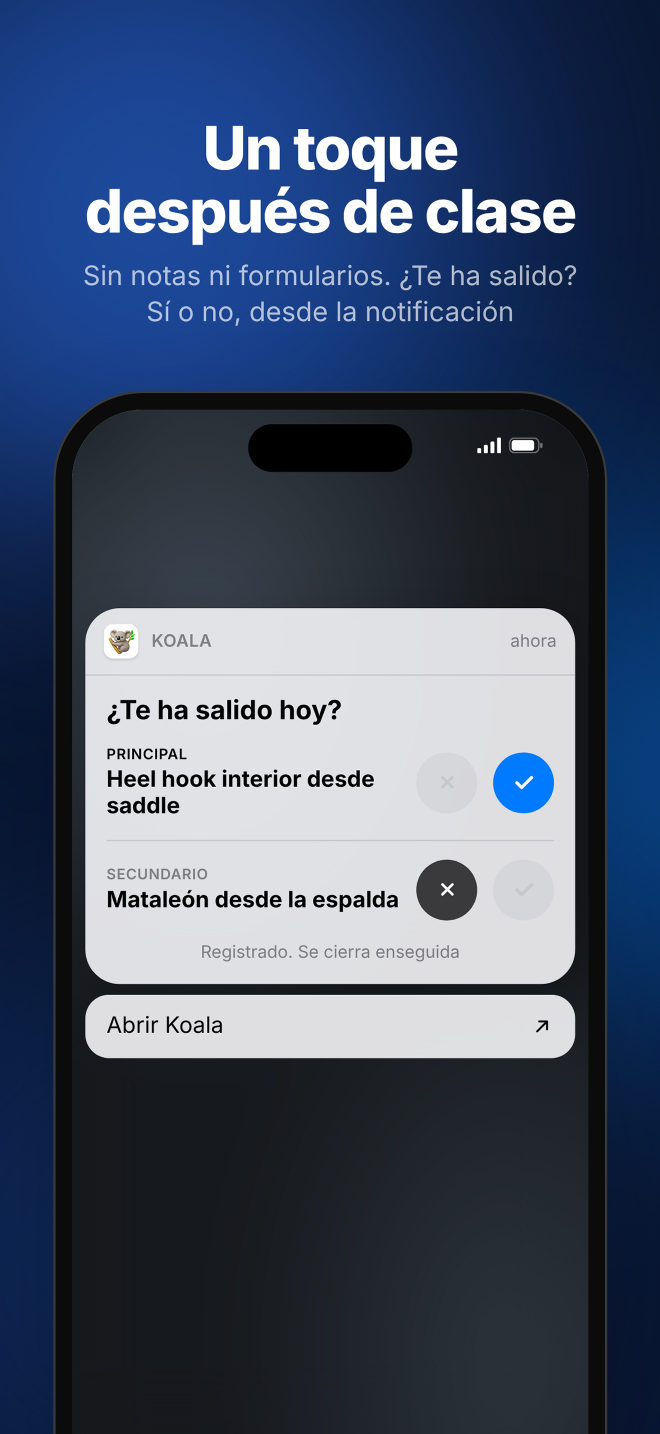
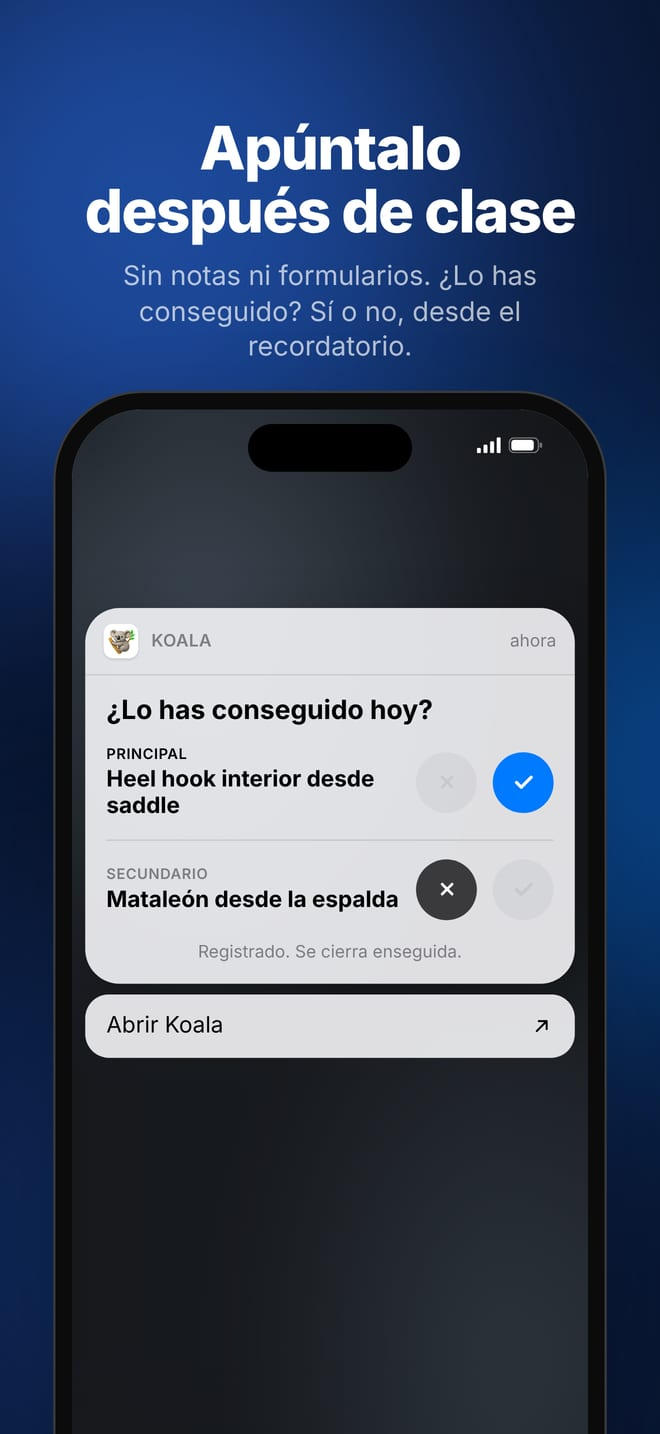
Bring Koala's page up to date with the app's new texts
The landing texts, the privacy and terms pages and the screenshots
follow the app's copy review: periods on the texts themselves, Spanish
"conseguir" and "de uno en uno", BJJ in Portuguese, American dates.

diff --git a/src/content/legal/koala/pt/privacy.md b/src/content/legal/koala/pt/privacy.md
@@ -1,6 +1,6 @@
 ---
 title: "Política de Privacidade"
-updated: "Última atualização: 8 de outubro de 2026"
+updated: "Última atualização: 9 de outubro de 2026"
 ---
 
 O Koala é um app gratuito feito por David Stanete, um desenvolvedor independente com sede na Espanha (“eu”). Esta política explica o que acontece com as suas informações quando você usa o Koala.
@@ -13,11 +13,11 @@ Suas metas, os treinos que você registra, sua faixa, os dias e o horário dos s
 
 ## Sincronização com o iCloud
 
-Se a sincronização com o iCloud estiver ativada (ela vem ativada quando você está conectado ao iCloud), o Koala mantém uma cópia dessas informações no seu armazenamento privado do iCloud, para que elas voltem se você reinstalar o Koala ou trocar de iPhone. Ela fica na sua própria conta do iCloud, sob a política de privacidade da Apple. Eu não consigo ver nem acessar essa cópia. Você pode desativar a sincronização com o iCloud nos Ajustes do Koala quando quiser.
+Se a sincronização com o iCloud estiver ativada (ela vem ativada quando você usa o iCloud no aparelho), o Koala mantém uma cópia dessas informações no seu armazenamento privado do iCloud, para que elas voltem se você reinstalar o Koala ou trocar de iPhone. Ela fica na sua própria conta do iCloud, sob a política de privacidade da Apple. Eu não consigo ver nem acessar essa cópia. Você pode desativar a sincronização com o iCloud nos Ajustes do Koala quando quiser.
 
 ## O que o Koala não faz
 
-O Koala não tem servidores próprios nem usa serviços de análise, de publicidade ou de relatórios de falhas. Ele não rastreia você em outros apps ou sites. Não acessa sua localização, seus contatos nem sua câmera. Nunca lê suas fotos: só adiciona a elas o cartão da sua meta quando você toca em Salvar em Fotos. Só lê o Apple Health se você ativar, para o sono ou para uma meta de peso. Não vende, não aluga e não compartilha dados, porque não tem nenhum para compartilhar.
+O Koala não tem servidores próprios nem usa serviços de análise, de publicidade ou de relatórios de falhas. Ele não rastreia você em outros apps ou sites. Não acessa sua localização, seus contatos nem sua câmera. Nunca lê suas fotos: só adiciona a elas a imagem da sua meta quando você toca em “Salvar em Fotos”. Só lê o Apple Health se você ativar, para o sono ou para uma meta de peso. Não vende, não aluga e não compartilha dados, porque não tem nenhum para compartilhar.
 
 ## Lembretes
 
@@ -25,15 +25,15 @@ Os lembretes são agendados no seu aparelho com as notificações locais do sist
 
 ## Apple Health (opcional)
 
-Se você ativar o Apple Health, o Koala pede sua permissão para ler quanto você dorme, e mostra isso no Início. Se você também adicionar uma meta de peso a um campeonato, ele pede para ler seu peso corporal. Ele lê só esses dados e nunca escreve no Saúde. No Android, o Koala faz o mesmo com o Health Connect. As leituras ficam no seu aparelho (e no seu próprio iCloud com o resto dos seus dados, se a sincronização com o iCloud estiver ativada). Elas nunca são enviadas para mim nem para ninguém, e não são usadas para publicidade ou análise. Você pode desativar o Apple Health no Koala, ou revogar o acesso nos ajustes do Saúde no seu iPhone.
+Se você ativar o Apple Health, o Koala pede sua permissão para ler quanto você dorme, e mostra isso no Início. Se você também adicionar uma meta de peso a um campeonato, ele pede para ler seu peso corporal. Ele lê só esses dados e nunca escreve no Apple Health. No Android, o Koala faz o mesmo com o Health Connect. As leituras ficam no seu aparelho (e no seu próprio iCloud com o resto dos seus dados, se a sincronização com o iCloud estiver ativada). Elas nunca são enviadas para mim nem para ninguém, e não são usadas para publicidade ou análise. Você pode desativar o Apple Health no Koala, ou revogar o acesso nos ajustes do Saúde no seu iPhone.
 
 ## Compartilhar uma meta
 
-Quando você toca em Instagram na tela de compartilhar, o Koala cria no seu aparelho uma imagem do cartão da sua meta e entrega para o Instagram. Quando você toca em Salvar em Fotos, ele adiciona essa imagem às suas fotos; o Koala pede permissão antes, e só para adicionar, nunca para ler. Nada é compartilhado nem salvo se você não tocar. Depois de compartilhado, vale a política de privacidade desse app (por exemplo, a do Instagram).
+Quando você toca em Instagram na tela de compartilhar, o Koala cria no seu aparelho uma imagem da sua meta e entrega para o Instagram. Quando você toca em “Salvar em Fotos”, ele adiciona essa imagem às suas fotos; o Koala pede permissão antes, e só para adicionar, nunca para ler. Nada é compartilhado nem salvo se você não tocar. Depois de compartilhado, vale a política de privacidade desse app (por exemplo, a do Instagram).
 
 ## Exportar e importar seus dados
 
-Exportar meus dados cria um arquivo no seu aparelho e abre o menu de compartilhamento do sistema. Você decide para onde o arquivo vai. Importar dados lê um arquivo que você escolhe no seu aparelho; nada é enviado.
+“Exportar meus dados” cria um arquivo no seu aparelho e abre o menu de compartilhamento do sistema. Você decide para onde o arquivo vai. “Importar dados” lê um arquivo que você escolhe no seu aparelho; nada é enviado.
 
 ## Backups do aparelho
 
@@ -45,7 +45,7 @@ Se você enviar feedback por e-mail, eu recebo seu endereço de e-mail e o que v
 
 ## Apagar seus dados
 
-Ajustes → Apagar todos os dados remove tudo do seu aparelho e do seu iCloud na hora. Apagar o app remove os dados do seu aparelho; a cópia no seu iCloud continua lá até você usar Apagar todos os dados ou removê-la nos ajustes do iCloud do seu iPhone.
+Ajustes → “Apagar todos os dados” remove tudo do seu aparelho e do seu iCloud na hora. Apagar o app remove os dados do seu aparelho; a cópia no seu iCloud continua lá até você usar “Apagar todos os dados” ou removê-la nos ajustes do iCloud do seu iPhone.
 
 ## Crianças
 

diff --git a/src/content/legal/koala/es/privacy.md b/src/content/legal/koala/es/privacy.md
@@ -1,6 +1,6 @@
 ---
 title: "Política de privacidad"
-updated: "Última actualización: 8 de octubre de 2026"
+updated: "Última actualización: 9 de octubre de 2026"
 ---
 
 Koala es una app gratuita creada por David Stanete, un desarrollador independiente con sede en España («yo»). Esta política explica qué ocurre con tu información cuando usas Koala.
@@ -17,7 +17,7 @@ Si la sincronización con iCloud está activada (lo está por defecto cuando has
 
 ## Qué no hace Koala
 
-Koala no tiene servidores propios ni usa servicios de analítica, de publicidad o de informes de fallos. No te rastrea en otras apps ni en sitios web. No accede a tu ubicación, tus contactos ni tu cámara. Nunca lee tus fotos: solo añade a ellas la tarjeta de tu objetivo cuando tocas Guardar en Fotos. Solo lee Apple Health si lo activas, para el sueño o para un objetivo de peso. No vende, alquila ni comparte datos, porque no tiene ninguno que compartir.
+Koala no tiene servidores propios ni usa servicios de analítica, de publicidad o de informes de fallos. No te rastrea en otras apps ni en sitios web. No accede a tu ubicación, tus contactos ni tu cámara. Nunca lee tus fotos: solo añade a ellas la imagen de tu objetivo cuando tocas «Guardar en Fotos». Solo lee Apple Health si lo activas, para el sueño o para un objetivo de peso. No vende, alquila ni comparte datos, porque no tiene ninguno que compartir.
 
 ## Recordatorios
 
@@ -25,15 +25,15 @@ Los recordatorios se programan en tu dispositivo con las notificaciones locales 
 
 ## Apple Health (opcional)
 
-Si activas Apple Health, Koala te pide permiso para leer cuánto duermes, y lo muestra en Inicio. Si además añades un objetivo de peso a una competición, te pide permiso para leer tu peso corporal. Solo lee esos datos y nunca escribe en Salud. En Android, Koala hace lo mismo con Health Connect. Las lecturas se quedan en tu dispositivo (y en tu propio iCloud con el resto de tus datos, si la sincronización con iCloud está activada). Nunca se me envían a mí ni a nadie, y no se usan para publicidad ni para analítica. Puedes desactivar Apple Health en Koala, o retirar el acceso en los ajustes de Salud de tu iPhone.
+Si activas Apple Health, Koala te pide permiso para leer cuánto duermes, y lo muestra en Inicio. Si además añades un objetivo de peso a una competición, te pide permiso para leer tu peso corporal. Solo lee esos datos y nunca escribe en Apple Health. En Android, Koala hace lo mismo con Health Connect. Las lecturas se quedan en tu dispositivo (y en tu propio iCloud con el resto de tus datos, si la sincronización con iCloud está activada). Nunca se me envían a mí ni a nadie, y no se usan para publicidad ni para analítica. Puedes desactivar Apple Health en Koala, o retirar el acceso en los ajustes de Salud de tu iPhone.
 
 ## Compartir un objetivo
 
-Cuando tocas Instagram en la pantalla de compartir, Koala crea en tu dispositivo una imagen de la tarjeta de tu objetivo y se la entrega a Instagram. Cuando tocas Guardar en Fotos, añade esa imagen a tus fotos; Koala pide permiso antes, y solo para añadir, nunca para leer. No se comparte ni se guarda nada si no tocas. Una vez compartida, se aplica la política de privacidad de esa app (por ejemplo, la de Instagram).
+Cuando tocas Instagram en la pantalla de compartir, Koala crea en tu dispositivo una imagen de tu objetivo y se la entrega a Instagram. Cuando tocas «Guardar en Fotos», añade esa imagen a tus fotos; Koala pide permiso antes, y solo para añadir, nunca para leer. No se comparte ni se guarda nada si no tocas. Una vez compartida, se aplica la política de privacidad de esa app (por ejemplo, la de Instagram).
 
 ## Exportar e importar tus datos
 
-Exportar mis datos crea un archivo en tu dispositivo y abre el menú de compartir del sistema. Tú decides adónde va el archivo. Importar datos lee un archivo que eliges en tu dispositivo; no se sube nada.
+«Exportar mis datos» crea un archivo en tu dispositivo y abre el menú de compartir del sistema. Tú decides adónde va el archivo. «Importar datos» lee un archivo que eliges en tu dispositivo; no se sube nada.
 
 ## Copias de seguridad del dispositivo
 
@@ -45,7 +45,7 @@ Si me envías comentarios por correo, recibo tu dirección de correo y lo que es
 
 ## Borrar tus datos
 
-Ajustes → Borrar todos los datos lo elimina todo de tu dispositivo y de tu iCloud al momento. Borrar la app elimina los datos de tu dispositivo; la copia de tu iCloud se queda hasta que uses Borrar todos los datos o la quites en los ajustes de iCloud de tu iPhone.
+Ajustes → «Borrar todos los datos» lo elimina todo de tu dispositivo y de tu iCloud al momento. Borrar la app elimina los datos de tu dispositivo; la copia de tu iCloud se queda hasta que uses «Borrar todos los datos» o la quites en los ajustes de iCloud de tu iPhone.
 
 ## Menores
 

diff --git a/src/content/legal/koala/es/terms.md b/src/content/legal/koala/es/terms.md
@@ -1,6 +1,6 @@
 ---
 title: "Condiciones del servicio"
-updated: "Última actualización: 8 de octubre de 2026"
+updated: "Última actualización: 9 de octubre de 2026"
 ---
 
 Estas condiciones son un acuerdo entre tú y David Stanete («yo»), el desarrollador de Koala. Al descargar o usar Koala, las aceptas. Si no estás de acuerdo, por favor, no uses la app.
@@ -19,7 +19,7 @@ Tus objetivos, tus sesiones registradas y tus pesos registrados son tuyos. Se gu
 
 ## Entrena con cabeza
 
-Koala es una herramienta para registrar tus propios objetivos. No es asesoramiento de entrenamiento, médico, nutricional ni de preparación física, y nunca te dice cómo subir o bajar de peso. Habla con un médico antes de cambiar de peso para una competición. El jiu-jitsu brasileño conlleva riesgo de lesión. Entrena con instrucción cualificada, conoce tus límites y consulta a un médico si tienes dudas. Entrenas bajo tu propia responsabilidad.
+Koala es una herramienta para registrar tus propios objetivos. No es asesoramiento de entrenamiento, médico, nutricional ni de preparación física, y nunca te dice cómo subir o bajar de peso. Habla con un médico antes de cambiar de peso para una competición. El BJJ conlleva riesgo de lesión. Entrena con instrucción cualificada, conoce tus límites y consulta a un médico si tienes dudas. Entrenas bajo tu propia responsabilidad.
 
 ## Uso aceptable
 
@@ -39,15 +39,15 @@ Koala se ofrece «tal cual» y «según disponibilidad». En la medida en que la
 
 ## Limitación de responsabilidad
 
-En la medida en que la ley lo permita, no respondo de ninguna pérdida indirecta o derivada, de la pérdida de datos ni de ninguna lesión relacionada con tu entrenamiento. Nada de lo que dicen estas condiciones limita la responsabilidad que por ley no se puede limitar, ni tus derechos como consumidor.
+En la medida en que la ley lo permita, no respondo de ninguna pérdida indirecta o derivada, de la pérdida de datos ni de ninguna lesión relacionada con tu entrenamiento. Nada de lo que dicen estas condiciones limita la responsabilidad que por ley no se puede limitar, ni tus derechos como persona consumidora.
 
 ## Apple
 
-Si descargaste Koala del App Store: estas condiciones son entre tú y yo, no con Apple. Apple no tiene ninguna obligación de prestar mantenimiento ni soporte para Koala. Apple no es responsable de ninguna garantía, de ninguna reclamación relacionada con Koala (incluidas las de responsabilidad por producto, legales o regulatorias), ni de investigar o defender ninguna reclamación de que Koala infringe la propiedad intelectual de alguien. Confirmas que no te encuentras en un país sujeto a un embargo del Gobierno de Estados Unidos, y que no figuras en ninguna lista de partes prohibidas o restringidas del Gobierno de Estados Unidos. Apple y sus filiales son terceros beneficiarios de estas condiciones y pueden hacerlas valer frente a ti.
+Si has descargado Koala del App Store: estas condiciones son entre tú y yo, no con Apple. Apple no tiene ninguna obligación de prestar mantenimiento ni soporte para Koala. Apple no es responsable de ninguna garantía, de ninguna reclamación relacionada con Koala (incluidas las de responsabilidad por producto, legales o regulatorias), ni de investigar o defender ninguna reclamación de que Koala infringe la propiedad intelectual de alguien. Confirmas que no te encuentras en un país sujeto a un embargo del Gobierno de Estados Unidos, y que no figuras en ninguna lista de partes prohibidas o restringidas del Gobierno de Estados Unidos. Apple y sus filiales son terceros beneficiarios de estas condiciones y pueden hacerlas valer frente a ti.
 
 ## Google Play
 
-Si descargaste Koala de Google Play, también se aplican las Condiciones de Servicio de Google Play. Google no es responsable de Koala ni de darle soporte.
+Si has descargado Koala de Google Play, también se aplican las Condiciones de Servicio de Google Play. Google no es responsable de Koala ni de darle soporte.
 
 ## Cambios y finalización
 
@@ -55,7 +55,7 @@ Puedo actualizar estas condiciones. Si lo hago, cambiaré la fecha de arriba, y 
 
 ## Ley aplicable
 
-Estas condiciones se rigen por las leyes de España. Si eres consumidor, conservas las protecciones que te den las leyes del país donde vives.
+Estas condiciones se rigen por las leyes de España. Si eres una persona consumidora, conservas las protecciones que te den las leyes del país donde vives.
 
 ## Contacto
 

diff --git a/src/content/legal/koala/en/privacy.md b/src/content/legal/koala/en/privacy.md
@@ -1,6 +1,6 @@
 ---
 title: "Privacy Policy"
-updated: "Last updated: 8 October 2026"
+updated: "Last updated: October 9, 2026"
 ---
 
 Koala is a free app made by David Stanete, an independent developer based in Spain (“I”, “me”). This policy explains what happens to your information when you use Koala.
@@ -17,7 +17,7 @@ If iCloud sync is on (it is by default when you are signed in to iCloud), Koala 
 
 ## What Koala does not do
 
-Koala does not run its own servers or use analytics, advertising or crash-reporting services. It does not track you across other apps or websites. It does not access your location, contacts or camera. It never reads your photos: it only adds your goal card to them when you tap Save to Photos. It reads Apple Health only if you turn that on, for sleep or for a weight goal. It does not sell, rent or share any data, because it has none to share.
+Koala does not run its own servers or use analytics, advertising or crash-reporting services. It does not track you across other apps or websites. It does not access your location, contacts or camera. It never reads your photos: it only adds the image of your goal to them when you tap Save to Photos. It reads Apple Health only if you turn that on, for sleep or for a weight goal. It does not sell, rent or share any data, because it has none to share.
 
 ## Reminders
 
@@ -25,11 +25,11 @@ Reminders are scheduled on your device using the system’s local notifications.
 
 ## Apple Health (optional)
 
-If you turn on Apple Health, Koala asks your permission to read how long you sleep, and shows it on Home. If you also add a weight goal to a competition, it asks to read your body weight. It reads only these and never writes to Health. On Android, Koala does the same with Health Connect. The readings stay on your device (and in your own iCloud with the rest of your data, if iCloud sync is on). They are never sent to me or to anyone else, and they are not used for advertising or analytics. You can turn Apple Health off in Koala, or take back access in the Health settings on your iPhone.
+If you turn on Apple Health, Koala asks your permission to read how long you sleep, and shows it on Home. If you also add a weight goal to a competition, it asks to read your body weight. It reads only these and never writes to Apple Health. On Android, Koala does the same with Health Connect. The readings stay on your device (and in your own iCloud with the rest of your data, if iCloud sync is on). They are never sent to me or to anyone else, and they are not used for advertising or analytics. You can turn Apple Health off in Koala, or take back access in the Health settings on your iPhone.
 
 ## Sharing a goal
 
-When you tap Instagram on the share screen, Koala creates an image of your goal card on your device and hands it to Instagram. When you tap Save to Photos, it adds that image to your photos; Koala asks for permission first, and only to add, never to read. Nothing is shared or saved unless you tap. Once shared, that app’s own privacy policy applies (for example, Instagram’s).
+When you tap Instagram on the share screen, Koala creates an image of your goal on your device and hands it to Instagram. When you tap Save to Photos, it adds that image to your photos; Koala asks for permission first, and only to add, never to read. Nothing is shared or saved unless you tap. Once shared, that app’s own privacy policy applies (for example, Instagram’s).
 
 ## Exporting and importing your data
 

diff --git a/src/content/legal/koala/pt/terms.md b/src/content/legal/koala/pt/terms.md
@@ -1,6 +1,6 @@
 ---
 title: "Termos de Serviço"
-updated: "Última atualização: 8 de outubro de 2026"
+updated: "Última atualização: 9 de outubro de 2026"
 ---
 
 Estes termos são um acordo entre você e David Stanete (“eu”), o desenvolvedor do Koala. Ao baixar ou usar o Koala, você concorda com eles. Se não concordar, por favor, não use o app.
@@ -19,7 +19,7 @@ Suas metas, seus treinos registrados e seus pesos registrados são seus. Eles fi
 
 ## Treine com segurança
 
-O Koala é uma ferramenta para registrar suas próprias metas. Ele não é orientação de treino, médica, nutricional nem de condicionamento físico, e nunca diz como ganhar ou perder peso. Converse com um médico antes de mudar de peso para um campeonato. O jiu-jitsu brasileiro envolve risco de lesão. Treine com instrução qualificada, conheça seus limites e procure um médico se tiver dúvida. Você treina por sua conta e risco.
+O Koala é uma ferramenta para registrar suas próprias metas. Ele não é orientação de treino, médica, nutricional nem de condicionamento físico, e nunca diz como ganhar ou perder peso. Converse com um médico antes de mudar de peso para um campeonato. O BJJ envolve risco de lesão. Treine com instrução qualificada, conheça seus limites e procure um médico se tiver dúvida. Você treina por sua conta e risco.
 
 ## Uso aceitável
 
@@ -39,7 +39,7 @@ O Koala é fornecido “como está” e “conforme disponível”. Na medida em
 
 ## Limitação de responsabilidade
 
-Na medida em que a lei permitir, não me responsabilizo por nenhuma perda indireta ou consequente, por dados perdidos nem por nenhuma lesão relacionada ao seu treino. Nada nestes termos limita a responsabilidade que não pode ser limitada por lei, nem os seus direitos como consumidor.
+Na medida em que a lei permitir, não me responsabilizo por nenhuma perda indireta ou consequente, por dados perdidos nem por nenhuma lesão relacionada ao seu treino. Nada nestes termos limita a responsabilidade que não pode ser limitada por lei, nem os seus direitos como pessoa consumidora.
 
 ## Apple
 
@@ -55,7 +55,7 @@ Eu posso atualizar estes termos. Se fizer isso, vou mudar a data no topo, e cont
 
 ## Lei aplicável
 
-Estes termos são regidos pelas leis da Espanha. Se você é consumidor, mantém as proteções dadas pelas leis do país onde mora.
+Estes termos são regidos pelas leis da Espanha. Se você é uma pessoa consumidora, mantém as proteções dadas pelas leis do país onde mora.
 
 ## Contato
 

diff --git a/src/content/legal/koala/en/terms.md b/src/content/legal/koala/en/terms.md
@@ -1,6 +1,6 @@
 ---
 title: "Terms of Service"
-updated: "Last updated: 8 October 2026"
+updated: "Last updated: October 9, 2026"
 ---
 
 These terms are an agreement between you and David Stanete (“I”, “me”), the developer of Koala. By downloading or using Koala, you agree to them. If you don’t agree, please don’t use the app.
@@ -9,9 +9,9 @@ These terms are an agreement between you and David Stanete (“I”, “me”), 
 
 Koala is free to use, with no purchases or subscriptions. It may show sponsors in the future, but never in a way that tracks you.
 
-## Your licence
+## Your license
 
-I give you a personal, non-exclusive, non-transferable and revocable licence to use Koala on devices you own or control, for your own non-commercial use, as allowed by the Apple Media Services Terms and Conditions or the Google Play Terms of Service.
+I give you a personal, non-exclusive, non-transferable and revocable license to use Koala on devices you own or control, for your own non-commercial use, as allowed by the Apple Media Services Terms and Conditions or the Google Play Terms of Service.
 
 ## Your data
 
@@ -19,7 +19,7 @@ Your goals, logged sessions and logged weights belong to you. They are stored on
 
 ## Train safely
 
-Koala is a tool for logging your own goals. It is not coaching, medical, nutrition or fitness advice, and it never tells you how to gain or lose weight. Talk to a doctor before changing your weight for a competition. Brazilian jiu-jitsu carries a risk of injury. Train under qualified instruction, know your limits, and check with a doctor if you are unsure. You train at your own risk.
+Koala is a tool for logging your own goals. It is not coaching, medical, nutrition or fitness advice, and it never tells you how to gain or lose weight. Talk to a doctor before changing your weight for a competition. BJJ carries a risk of injury. Train under qualified instruction, know your limits, and check with a doctor if you are unsure. You train at your own risk.
 
 ## Acceptable use
 
